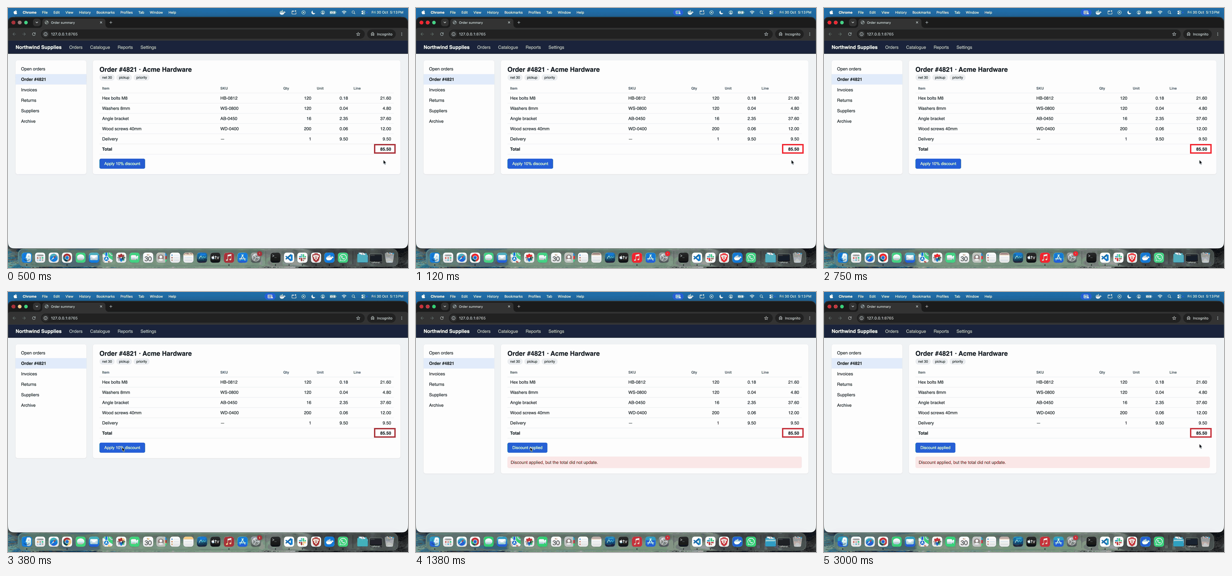
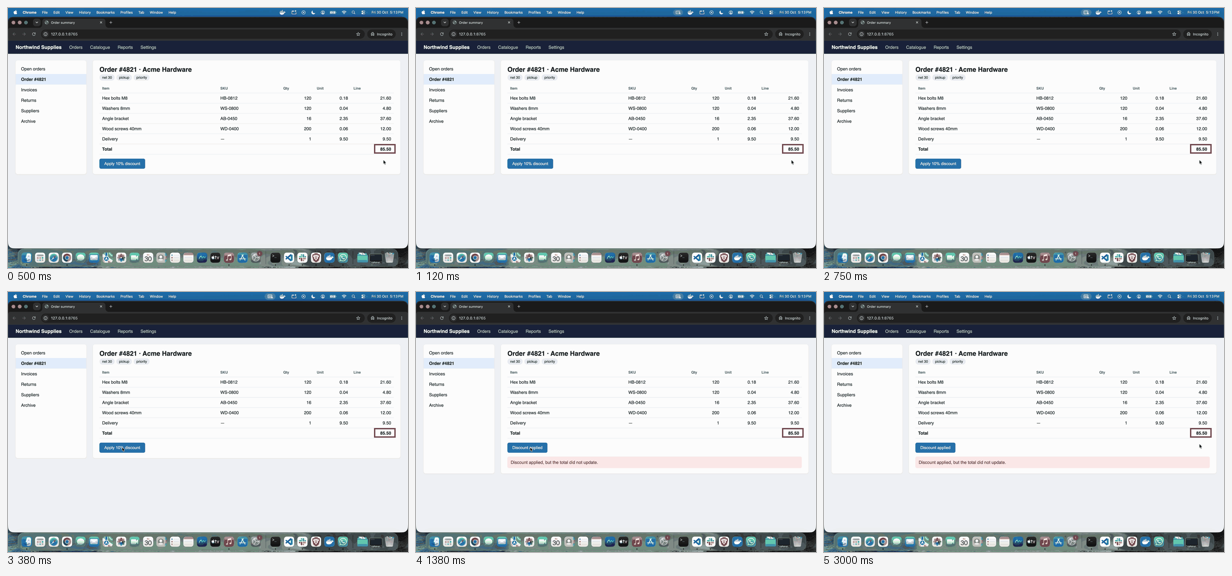
encode: one shared palette for the whole GIF so stills stay identical; exact ignore denominator; re-measured demo

diff --git a/src/shotproof/encode.py b/src/shotproof/encode.py
@@ -144,8 +144,20 @@ def gif_delays(durations: List[int]) -> List[int]:
     return [max(20, round(d / 10) * 10) for d in durations]
 
 
+def shared_palette(frames: List[Image.Image], colors: int) -> Image.Image:
+    """One palette built from every kept frame, so frames that match in RGB match pixel for pixel in the GIF."""
+    w, h = frames[0].size
+    tw = max(1, min(w, 256))
+    th = max(1, round(h * tw / w))
+    strip = Image.new("RGB", (tw, th * len(frames)))
+    for i, f in enumerate(frames):
+        strip.paste(f.resize((tw, th)), (0, i * th))
+    return strip.quantize(colors=colors, method=Image.Quantize.MEDIANCUT, dither=Image.Dither.NONE)
+
+
 def write_gif(path: str, frames: List[Image.Image], durations: List[int], colors: int) -> None:
-    pal = [f.quantize(colors=colors, method=Image.Quantize.MEDIANCUT, dither=Image.Dither.NONE) for f in frames]
+    palette = shared_palette(frames, colors)
+    pal = [f.quantize(palette=palette, dither=Image.Dither.NONE) for f in frames]
     pal[0].save(path, save_all=True, append_images=pal[1:], duration=durations, loop=0, disposal=1, optimize=False)
 
 
@@ -165,7 +177,9 @@ def encode(clip: str, out: str, opts: EncodeOptions) -> dict:
 
         def to_output(rect: Rect) -> Rect:
             x, y, w, h = rect
-            return round((x - ox) * sx), round((y - oy) * sy), max(1, round(w * sx)), max(1, round(h * sy))
+            x0, y0 = round((x - ox) * sx), round((y - oy) * sy)
+            x1, y1 = round((x + w - ox) * sx), round((y + h - oy) * sy)  # edges mapped separately, so none is lost
+            return x0, y0, max(1, x1 - x0), max(1, y1 - y0)
 
     ignore = [to_output(r) for r in opts.ignore] if opts.ignore else None
     frames, durations = merge_frames(raw, frame_ms, opts.tolerance, opts.min_fraction, ignore)

diff --git a/tests/test_encode_clip.py b/tests/test_encode_clip.py
@@ -49,7 +49,7 @@ def test_encode_merges_still_runs(clip, tmp_path):
         assert json.load(fh) == report
     r = check(out, Limits(max_duration=4, max_changes=2, min_end_hold=1.5))
     assert r.ok, r.failures
-    assert r.measurements.changed_frames == 2
+    assert r.measurements.changed_frames == 2  # exactly kept_frames - 1: the shared palette adds no noise
     assert r.measurements.hold_at_end
 
 
@@ -99,3 +99,24 @@ def test_encode_ignore_region(clip, tmp_path):
     # ignore regions are mapped through crop and scale like the marker
     report = encode(clip, out, EncodeOptions(fps=10, max_width=80, crop=(0, 30, 160, 60), ignore=((0, 35, 160, 40),)))
     assert report["kept_frames"] == 1
+
+
+def test_shared_palette_keeps_stills_identical(tmp_path):
+    """Two RGB-identical frames must come out of the GIF pixel-identical, whatever the palette size."""
+    from shotproof.encode import write_gif
+    from shotproof.frames import diff_fraction, load_frames
+
+    base = Image.new("RGB", (120, 80))
+    px = base.load()
+    for y in range(80):
+        for x in range(120):
+            px[x, y] = (x * 2, y * 3, (x + y) % 256)  # a gradient that a small palette must approximate
+    other = base.copy()
+    ImageDraw.Draw(other).rectangle((10, 10, 40, 40), fill=(255, 0, 0))
+    out = str(tmp_path / "pal.gif")
+    write_gif(out, [base, base.copy(), other, base.copy()], [100, 100, 100, 100], colors=32)
+    frames = load_frames(out)
+    # the writer folds the two identical opening frames into one, so three frames come back
+    assert [f.duration_ms for f in frames] == [200, 100, 100]
+    assert diff_fraction(frames[0].image, frames[2].image, tolerance=0) == 0.0
+    assert diff_fraction(frames[0].image, frames[1].image) > 0.05

diff --git a/src/shotproof/frames.py b/src/shotproof/frames.py
@@ -59,10 +59,12 @@ def diff_fraction(a: Image.Image, b: Image.Image, tolerance: int = 8, ignore: Op
     if ignore:
         from PIL import ImageDraw
 
-        draw = ImageDraw.Draw(mask)
+        keep = Image.new("L", a.size, 255)  # 255 where pixels are compared
+        draw = ImageDraw.Draw(keep)
         for x, y, w, h in ignore:
             draw.rectangle((x, y, x + w - 1, y + h - 1), fill=0)
-            total -= max(0, min(x + w, a.size[0]) - max(x, 0)) * max(0, min(y + h, a.size[1]) - max(y, 0))
+        mask = ImageChops.multiply(mask, keep)
+        total = keep.histogram()[255]  # counted from the drawing, so overlaps and off-canvas parts are exact
     changed = mask.histogram()[255]
     return changed / total if total > 0 else 0.0
 

diff --git a/tests/test_ignore.py b/tests/test_ignore.py
@@ -52,3 +52,11 @@ def test_parse_rect_errors():
 
 def test_encode_options_carry_ignore():
     assert EncodeOptions(ignore=((1, 2, 3, 4),)).ignore == ((1, 2, 3, 4),)
+
+
+def test_overlapping_ignore_rects_counted_once():
+    a, b = frame((200, 200, 200)), frame((90, 90, 90))
+    whole = [(0, 0, 200, 100), (0, 0, 200, 100), (50, 50, 400, 400)]
+    assert diff_fraction(a, b, ignore=whole) == 0.0
+    # half the canvas ignored twice over: the clock is still outside it, so the fraction doubles exactly
+    assert diff_fraction(a, b, ignore=[(0, 50, 200, 50), (0, 50, 200, 50)]) == pytest.approx(2 * diff_fraction(a, b))

diff --git a/README.md b/README.md
@@ -181,7 +181,10 @@ it.
 
 **Merging (`encode`).** Frames are sampled at `--fps`. A frame that is not a change against the last kept
 frame is dropped and its time is added to that frame's duration. So a six-second clip with one click
-typically becomes three or four frames: the opening still, the hover state, the result, and the hold.
+typically becomes three or four frames: the opening still, the hover state, the result, and the hold. The
+kept frames are then quantised with one palette shared by the whole file, so two frames that matched in RGB
+match pixel for pixel in the GIF and a hold reads back as a hold. (With a palette per frame, as most GIF
+writers do by default, every still would differ by a few levels across the whole canvas.)
 
 **Hold measurement (`check`).** Walking the frames, every run of non-changes is summed in seconds, including
 the frame that starts the run. `longest_hold_s` is the biggest run anywhere; `end_hold_s` is the run that
@@ -202,14 +205,16 @@ Made on a laptop display with the three commands as published, nothing edited af
 $ shotproof record demo.mov --seconds 6 --lead 1.5 --move-to 420,572 --click --park 1380,560 --settle 0.4
 $ shotproof encode demo.mov demo.gif --fps 8 --max-width 1200 --end-hold 1.5 --marker 2690,1000,160,70
 $ shotproof check demo.gif --min-end-hold 1.5 --max-changes 8
-demo.gif: 6 frames, 6.13s, 5 changes, longest still 3.0s, final still 3.0s, 1200x780, 456161 bytes
+demo.gif: 6 frames, 6.13s, 4 changes, longest still 3.0s, final still 3.0s, 1200x780, 384775 bytes
 PASS
 ```
 
 The encode report is [docs/demo.gif.json](docs/demo.gif.json): 48 frames decoded at 8 fps, 42 merged as noise,
-6 kept. Of the 5 changes, 2 are the system's own screen-recording indicator settling in the menu bar during the
-first second, then the pointer arriving on the button, the click's result, and the pointer parking. The last
-frame holds for 3.0 s because the parked tail already lasted longer than `--end-hold`.
+6 kept. `check` counts 4 changes rather than 5 because the second kept frame (the system's recording indicator
+finishing its fade-in, 120 ms after the first) lands just under the change threshold once the GIF palette has
+flattened it; the count is the same at `--tolerance 8`, `16` and `32`. The four are the indicator appearing,
+the pointer arriving on the button, the click's result, and the pointer parking. The last frame holds for
+3.0 s because the parked tail already lasted longer than `--end-hold`.
 
 ## Limitations
 
